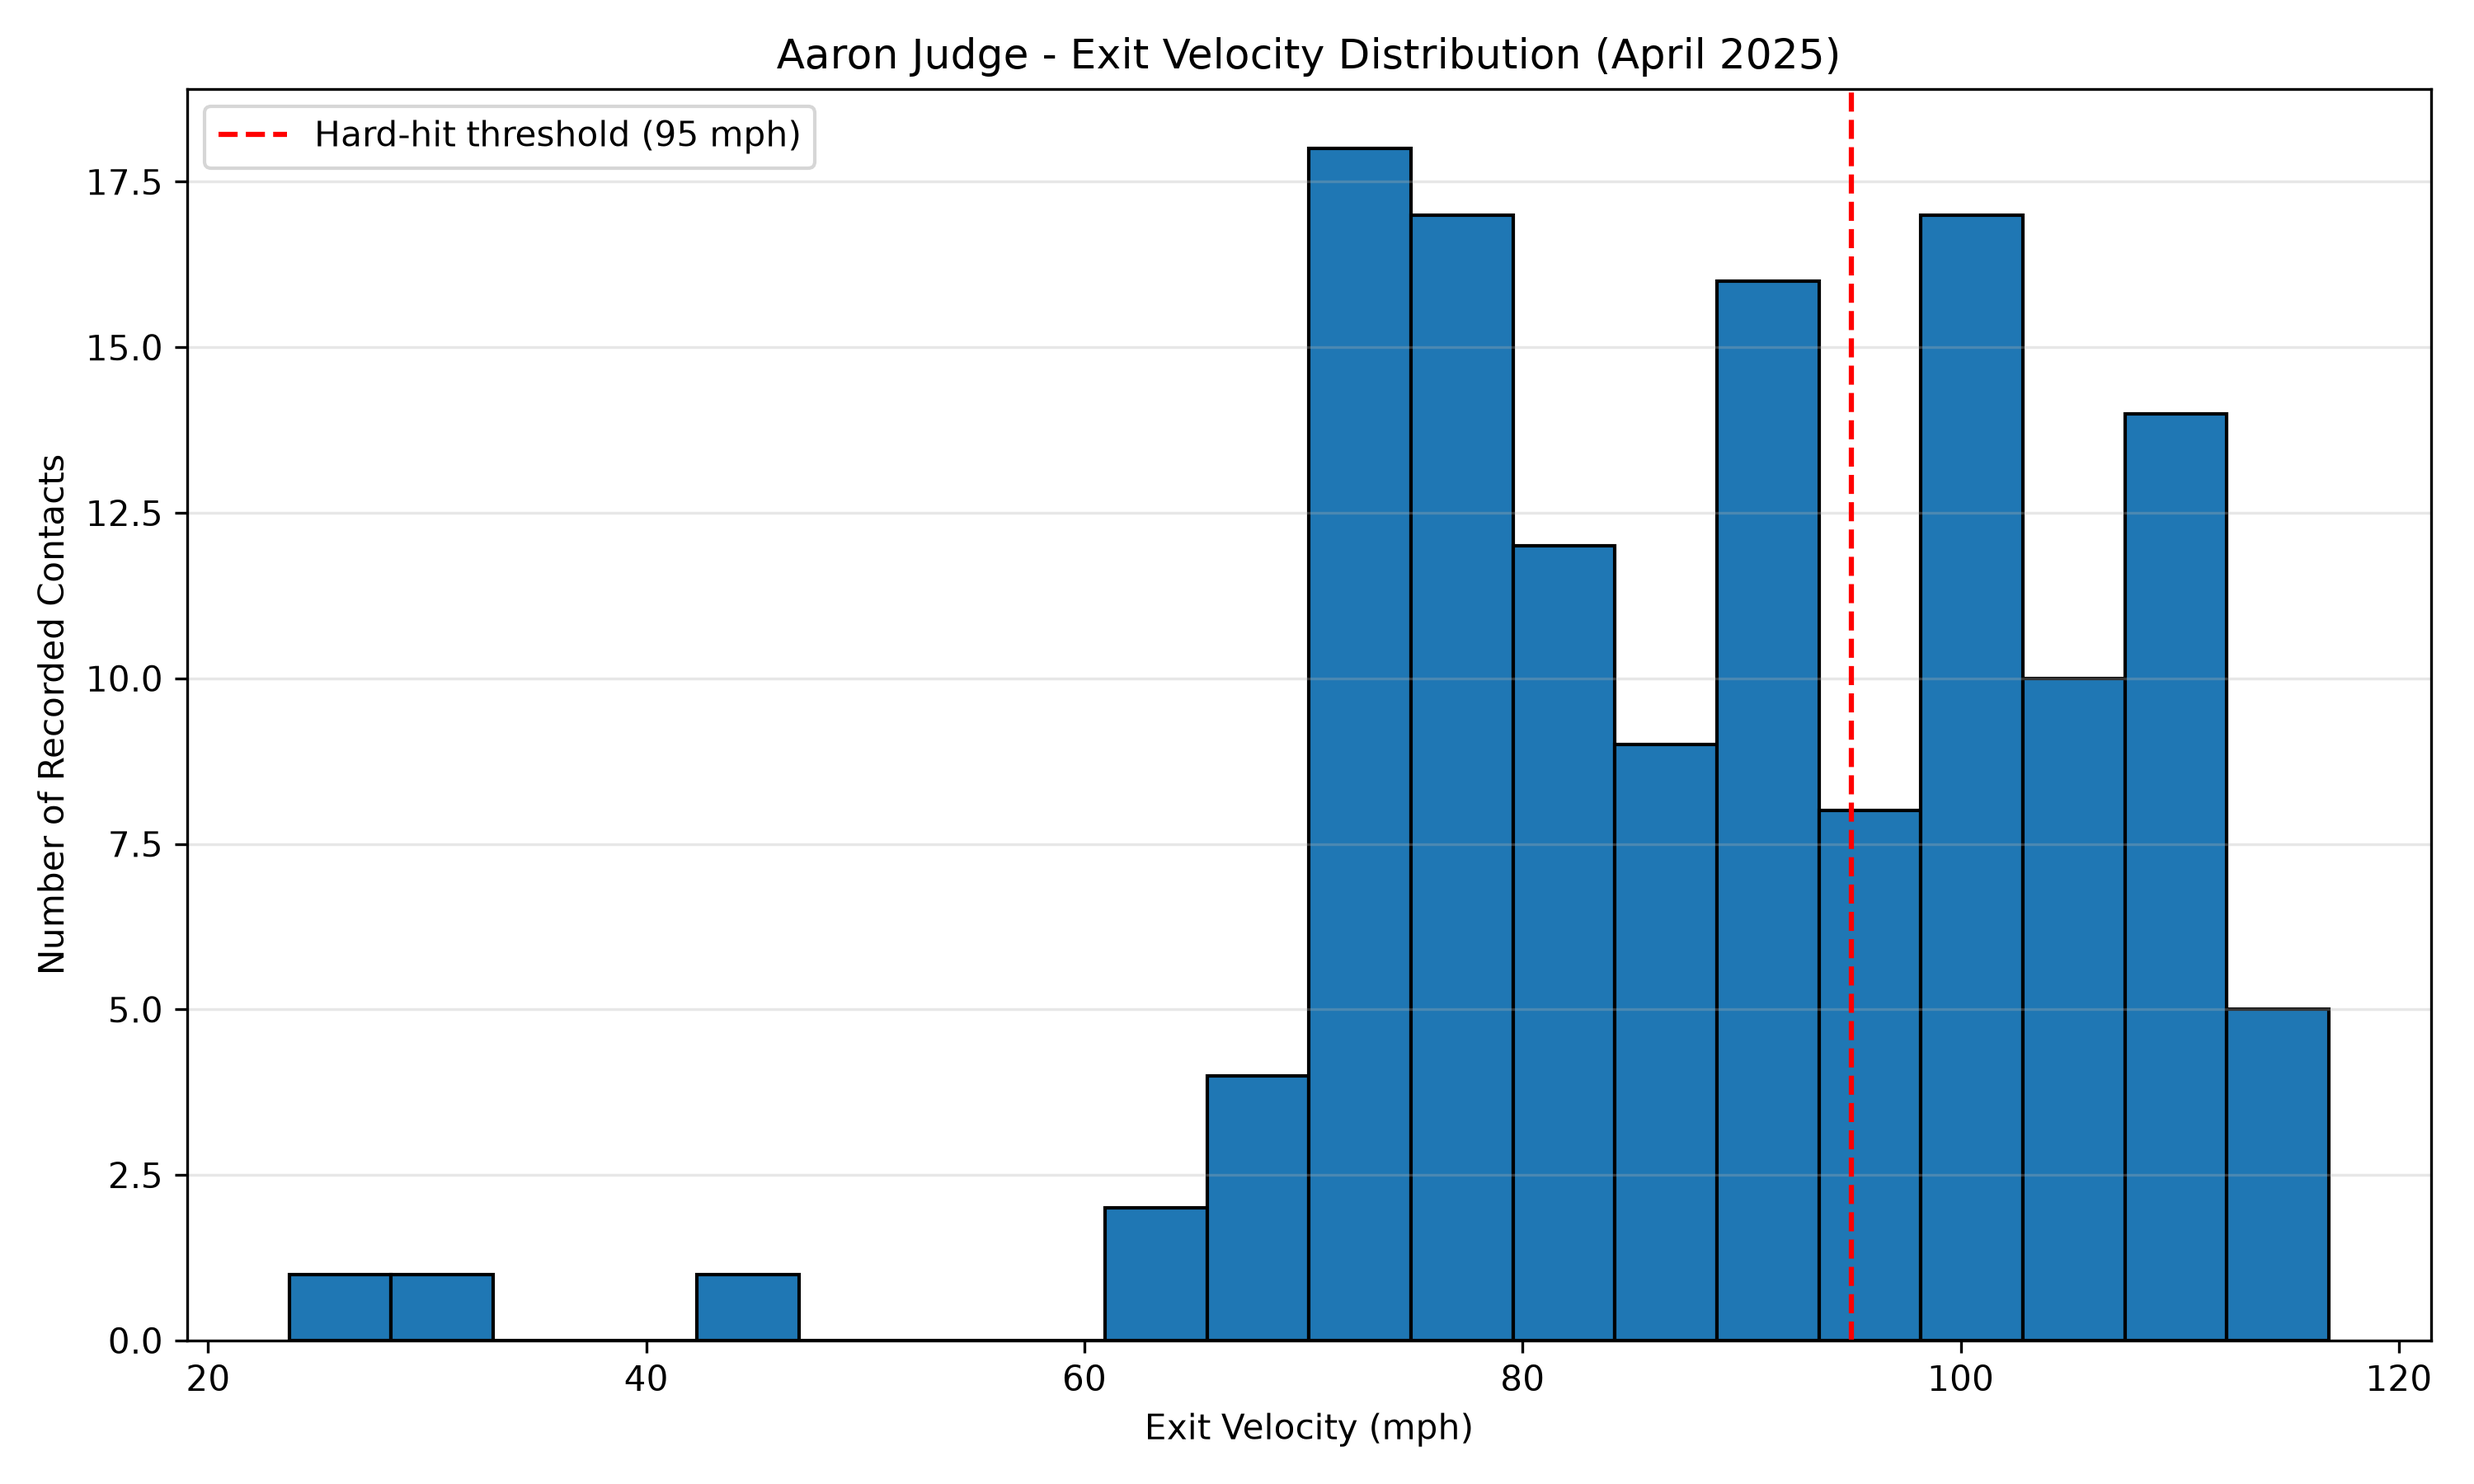
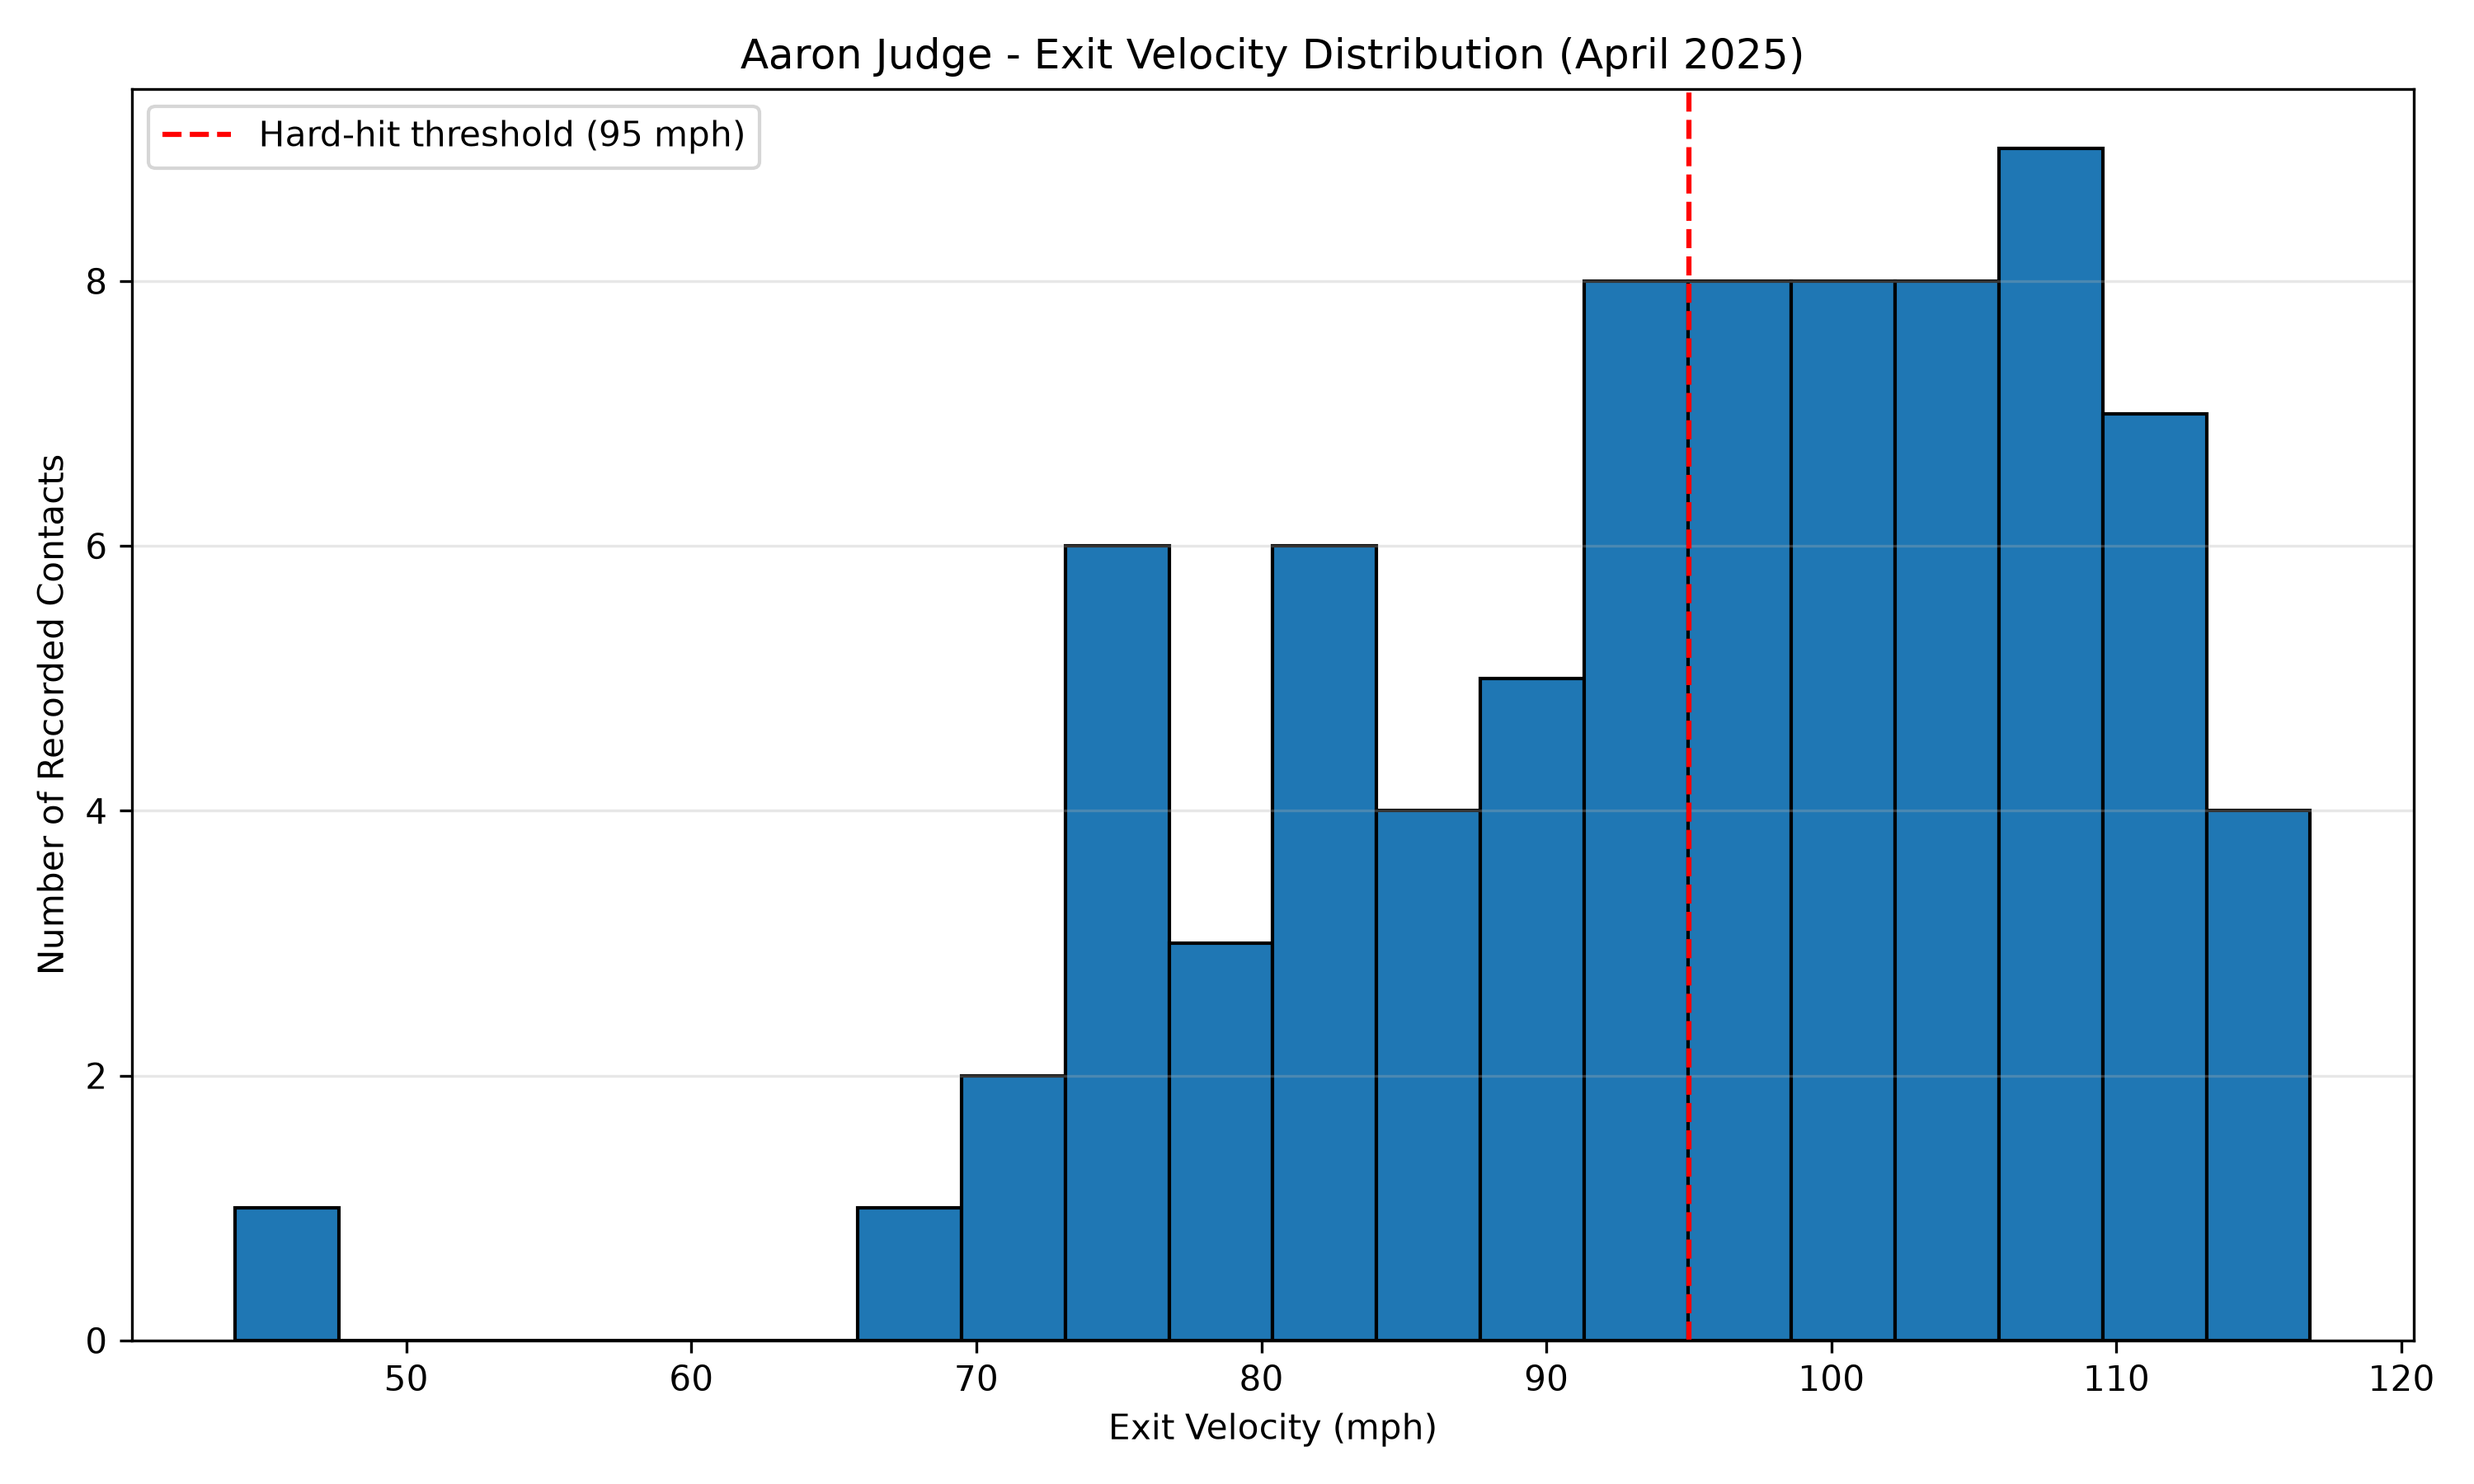
Add batted-ball exit velocity analysis

diff --git a/main.py b/main.py
@@ -33,8 +33,11 @@ data.to_csv("judge_statcast.csv", index=False)
 #               AARON JUDGE EXIT VELOCITY                #
 #--------------------------------------------------------#
 
-# Only keep pitches with recorded exit velocities
-batted_balls = data.dropna(subset=["launch_speed"])
+# Filter for batted-ball events with recorded exit velocity
+batted_balls = data[
+    (data["type"] == "X") &
+    (data["launch_speed"].notna())
+].copy()
 
 # Calculate average exit velocity
 avg_exit_velocity = batted_balls["launch_speed"].mean()
